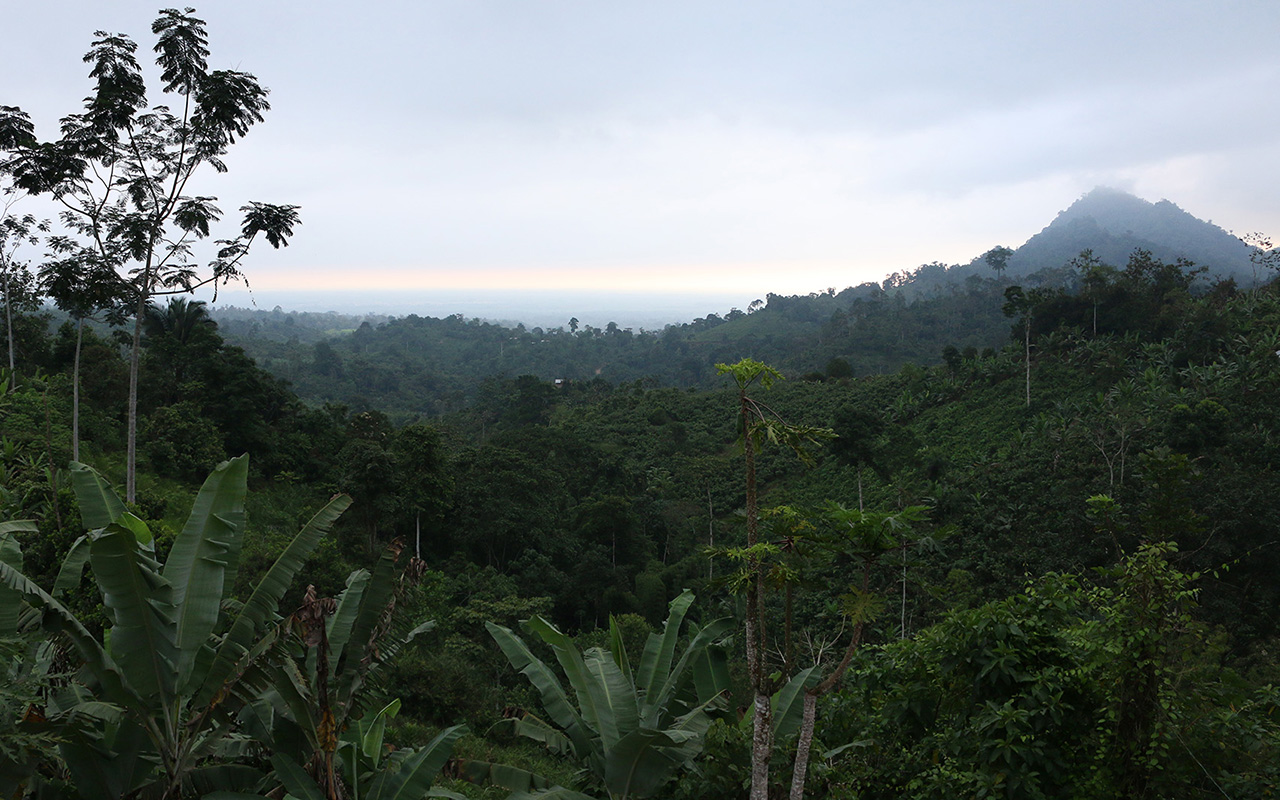
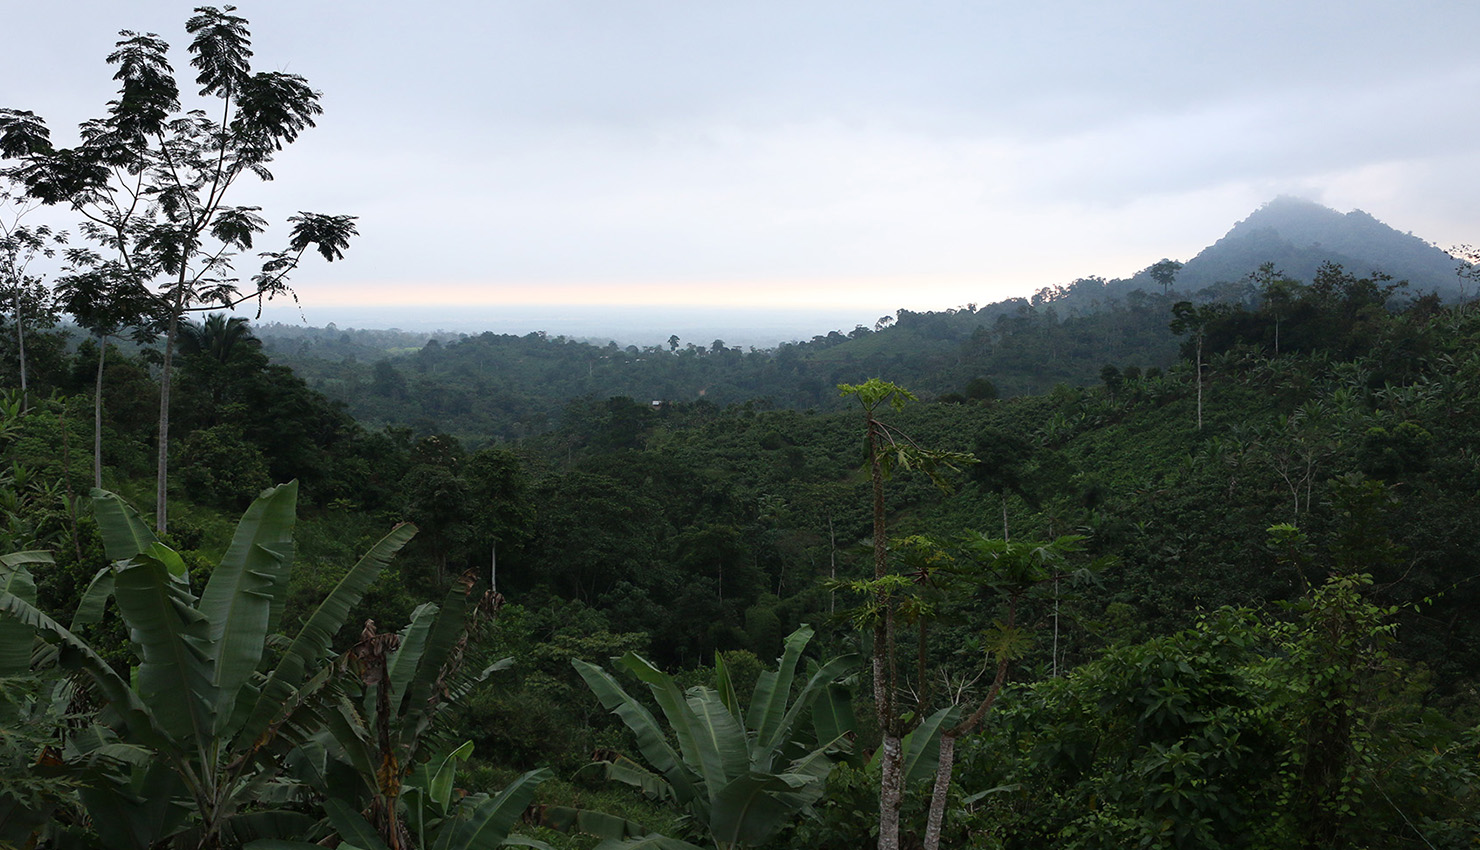
more image changes!

diff --git a/index.html b/index.html
@@ -164,7 +164,7 @@
 
             </div>
           </div>
-            <img src="img/lazyload-placeholder.gif" data-src="img/bg/bg-p3.jpg" class="lazy bgimg"/>
+            <img src="img/lazyload-placeholder.gif" data-src="img/bg-small/bg-p3.jpg" class="lazy bgimg"/>
         </div>
 
 
@@ -235,7 +235,7 @@
               <p>The concept of Fair Trade gained ground in the American food industry primarily with coffee. The 1970s and 1980s saw a surge in the creation of economic and political Fair Trade Organizations in response to the exploitation and US-instigated civil wars raging in Latin America nations. The standard helped stabilize business for small producers by fixing a year-round price that allows farmers to invest in their crops and budget their operation.</p>
             </div>
           </div>
-          <img src="img/lazyload-placeholder.gif" data-src="img/bg/bg-p6.jpg" class="lazy bgimg"/>
+          <img src="img/lazyload-placeholder.gif" data-src="img/bg-small/bg-p6.jpg" class="lazy bgimg"/>
         </div>
 
         <div class="swiper-slide">
@@ -252,7 +252,7 @@
               <p>Ecuador’s first small banana farmer co-operative, Asoguabo, was the first organization to export bananas under fair trade standards in the world. In 1997, Asoguabo’s 14 founders realized they could bypass middlemen and directly trade with consumers as a united, co-operative entity. A year later, after linking up with a Dutch NGO named Solidaridad, Asoguabo sold its first container. Since then, it has grown to 135 member farmers and exports 10 to 15 containers a week to Europe and the United States through Fair trade importers Agrofair and Equal Exchange. That means 135 small farmers are harvesting 10,000 bananas and shipping them across the world every week of the year on their own terms. </p>
             </div>
           </div>
-          <img src="img/lazyload-placeholder.gif" data-src="img/bg/bg-p7.jpg" class="lazy bgimg"/>
+          <img src="img/lazyload-placeholder.gif" data-src="img/bg-small/bg-p7.jpg" class="lazy bgimg"/>
       </div>
 
       <div class="swiper-slide" data-hash="14">
@@ -263,7 +263,7 @@
               <p>Fair Trade also promotes sustainable development. It works toward this goal by adding one "premium" dollar to the price paid to farmers for each box of bananas. This money, called the social premium, is assembled into a common community fund that producer members control. They decide during quarterly general assemblies on how to spend it on various social projects. Asoguabo has used its funds to build a health clinic in the village and support two schools.</p>
             </div>
           </div>
-          <img src="img/lazyload-placeholder.gif" data-src="img/bg/bg-p7.jpg" class="lazy bgimg"/>
+          <img src="img/lazyload-placeholder.gif" data-src="img/bg-small/bg-p7.jpg" class="lazy bgimg"/>
       </div>
 
       <div class="swiper-slide">
@@ -294,7 +294,7 @@
               <p><i>To build long-term trade partnerships that are economically just and environmentally sound, to foster mutually beneficial relationships between farmers and consumers, and to demonstrate through our success the contribution of worker co-operatives and Fair Trade to a more equitable, democratic and sustainable world.</i></p>
             </div>
           </div>
-          <img src="img/lazyload-placeholder.gif" data-src="img/bg/bg-p7.jpg" class="lazy bgimg"/>
+          <img src="img/lazyload-placeholder.gif" data-src="img/bg-small/bg-p7.jpg" class="lazy bgimg"/>
       </div>
 
       <div class="swiper-slide">
@@ -312,7 +312,7 @@
 
             </div>
           </div>
-          <img src="img/lazyload-placeholder.gif" data-src="img/bg/bg-p7.jpg" class="lazy bgimg"/>
+          <img src="img/lazyload-placeholder.gif" data-src="img/bg-small/bg-p7.jpg" class="lazy bgimg"/>
       </div>
 
       <div class="swiper-slide">
@@ -337,7 +337,7 @@
              <p>The upsurge of labels in the food industry has confused consumers, who have grown suspicious of the truth behind the “Organic” and “Fair Trade” buzzwords. When it comes to the supermarket’s cheapest fruit, 99 cents Fair Trade bananas have been relegated to niche markets like natural food or co-op stores where Fair Trade has also come to signify organic. As the healthy, alternative food market grows, multinationals and plantations have started to break into the fair trade market, posing competition and controversy in the Fair Trade world. And as Equal Exchange hopes to grow demand for Fair Trade bananas, the best way to scale up while not compromising the values of this alternative model has yet to be found. In this next section, explore the different challenges facing the Fair Trade banana supply chain.</p>
             </div>
           </div>
-          <img src="img/lazyload-placeholder.gif" data-src="img/bg/bg-p7.jpg" class="lazy bgimg"/>
+          <img src="img/lazyload-placeholder.gif" data-src="img/bg-small/bg-p10.jpg" class="lazy bgimg"/>
       	</div>
 
 
